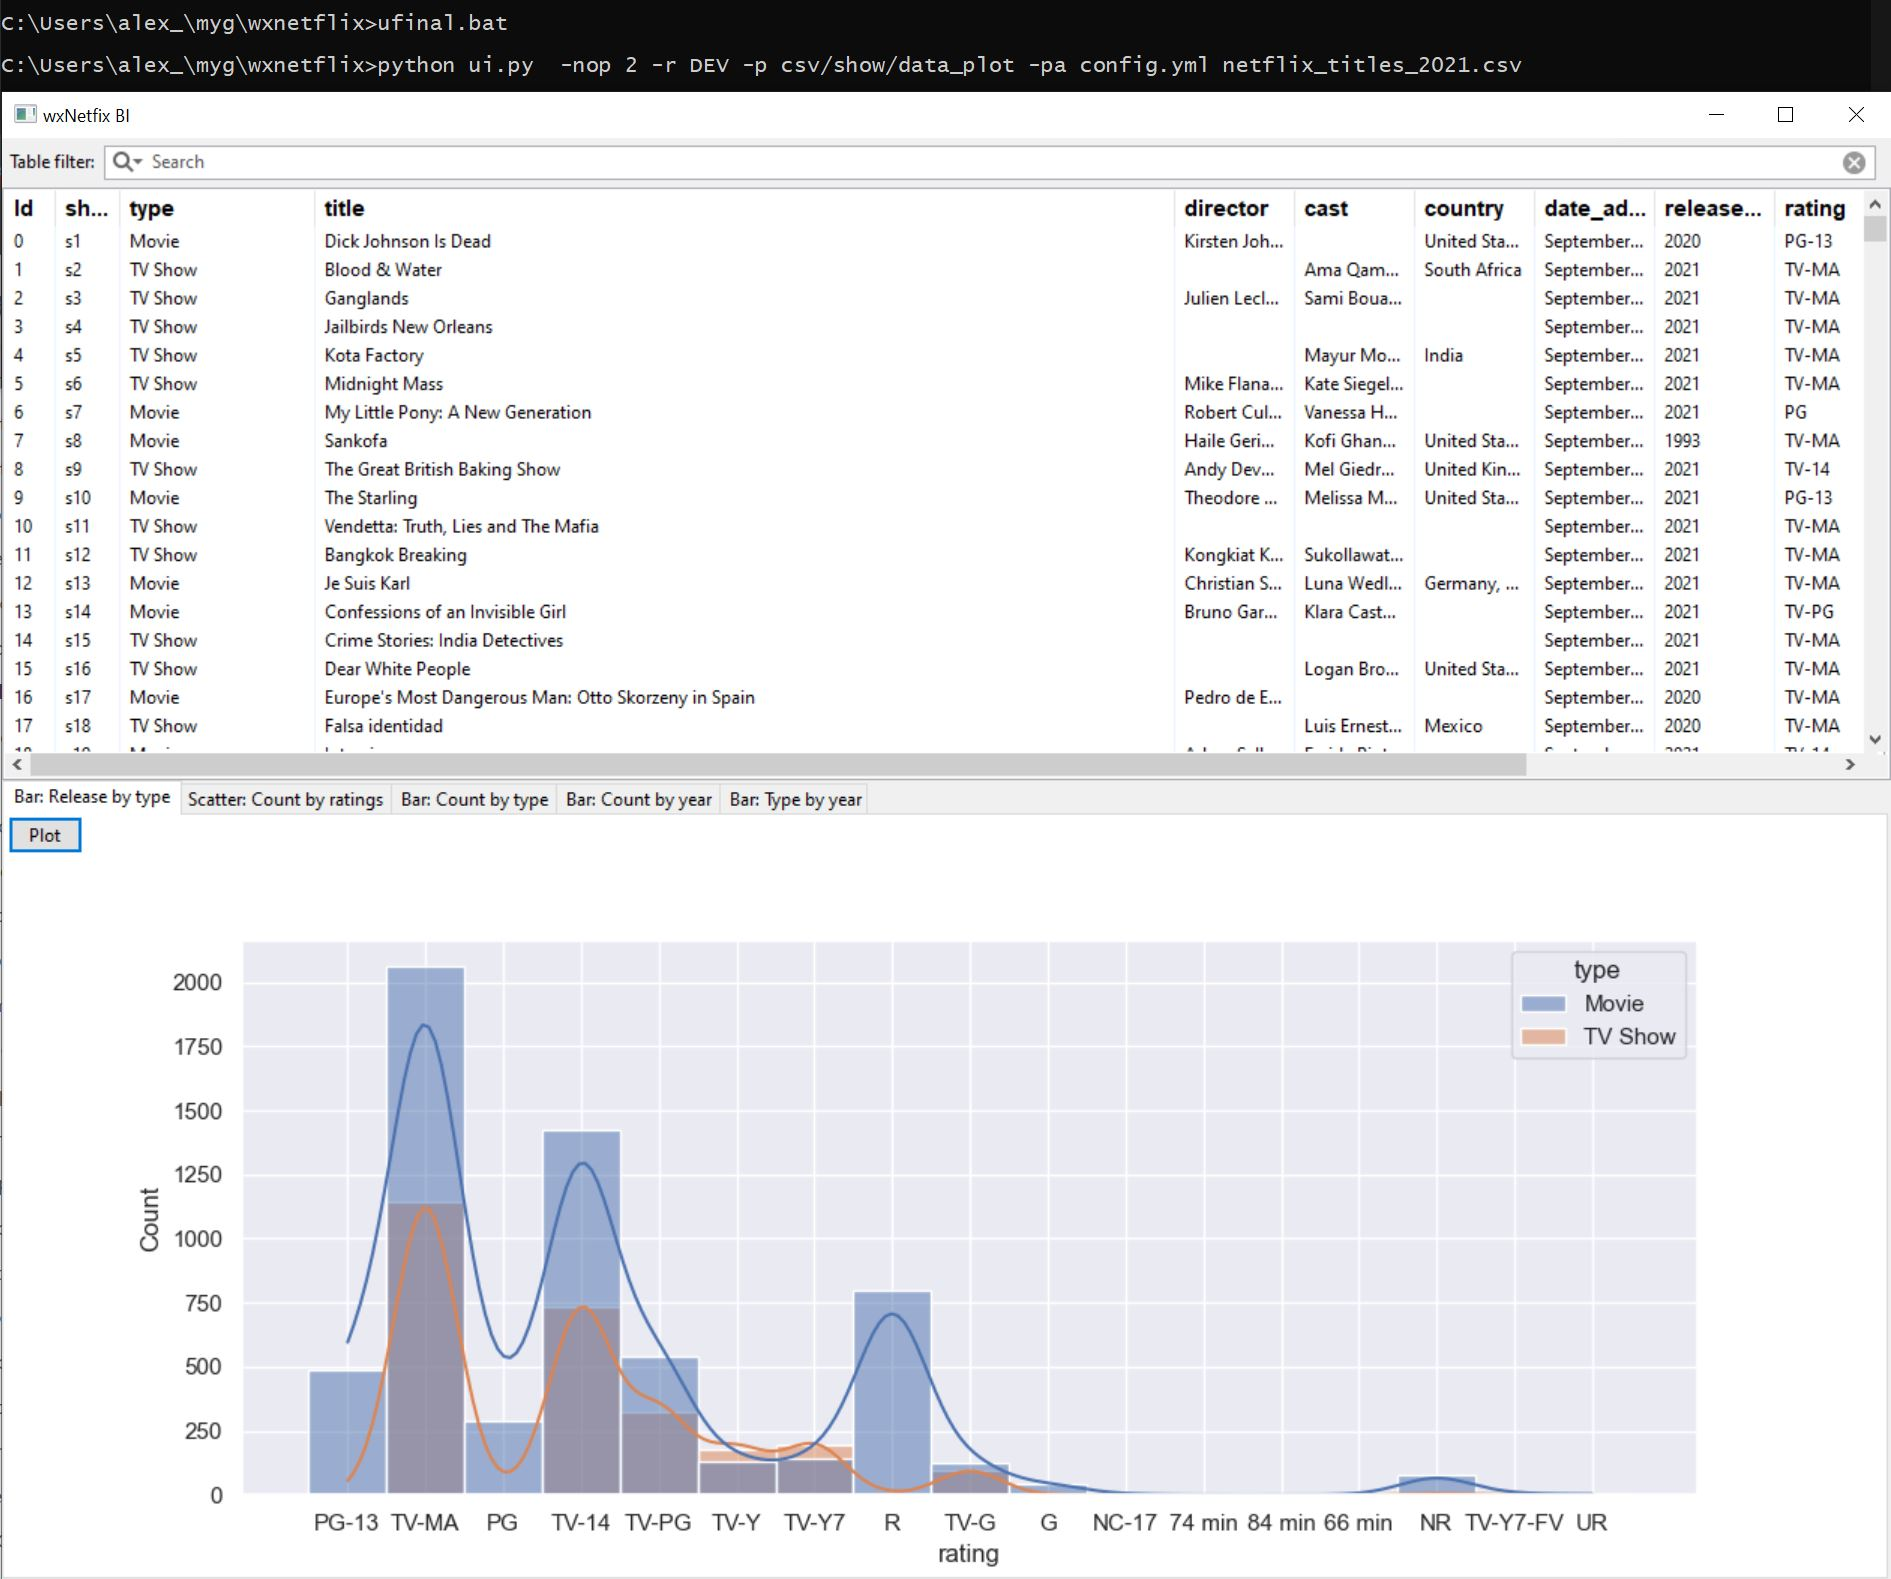
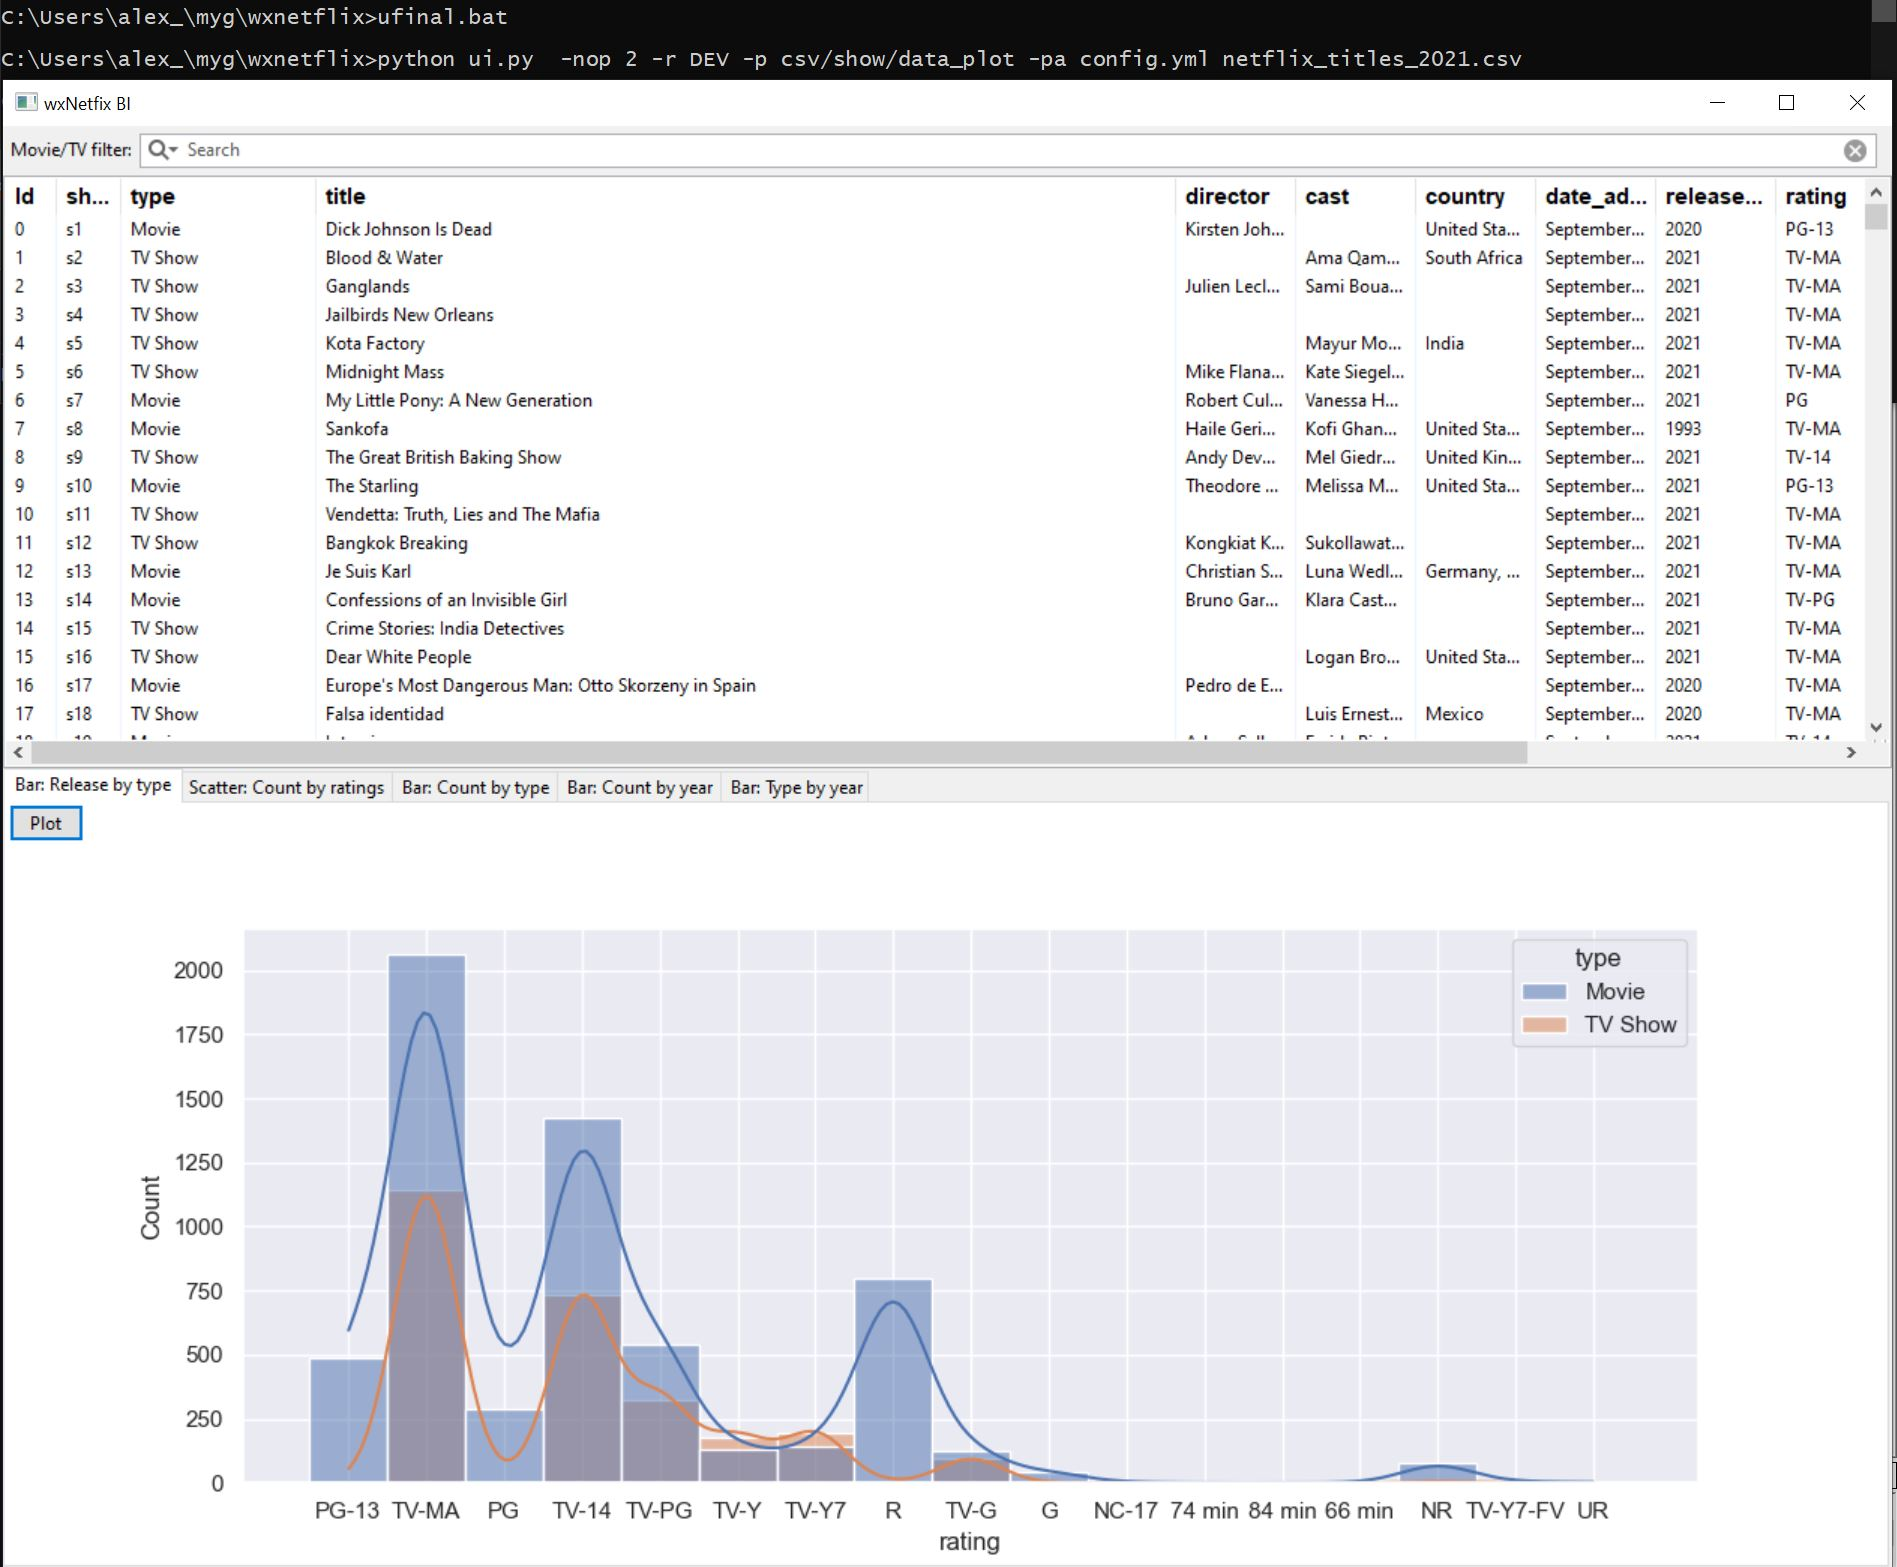
cleanup

diff --git a/pipeline/csv/show/data_plot/module/default/FilterPanel.py b/pipeline/csv/show/data_plot/module/default/FilterPanel.py
@@ -125,7 +125,7 @@ class FilterPanel(wx.Panel, Controller):
         #leftBox.Add(self.slist, 1, wx.EXPAND|wx.ALL)
         h_sizer = wx.BoxSizer(wx.HORIZONTAL)
         
-        h_sizer.Add(wx.StaticText(self, label = "Table filter:"), 0, wx.ALIGN_CENTER|wx.LEFT, 5)
+        h_sizer.Add(wx.StaticText(self, label = "Movie/TV filter:"), 0, wx.ALIGN_CENTER|wx.LEFT, 5)
         h_sizer.Add(self.filter, 1, wx.EXPAND|wx.ALL, 5)
         h_sizer.Add((5,10), 0)
 

diff --git a/README.md b/README.md
@@ -84,21 +84,6 @@ Then navigate to fifth tab ("Count by year") in lower panel and click "Plot" But
 ![List of all items](https://github.com/pydemo/wxnetflix/blob/main/docs/screenshots/ufinal_5.JPG)
 
 
-## ushow.bat
-Shows filterable list of in/netflix_titles_2021.csv items.
-
-```
-C:\Users\alex_\myg\wxnetflix>cat ushow.bat
-python ui.py  -nop 2 -r DEV -p csv/show/data -pa config.yml netflix_titles_2021.csv  %*
-```
-### Opens to
-![List of all items](https://github.com/pydemo/wxnetflix/blob/main/docs/screenshots/ushow.JPG)
-
-### Filtering
-![List of all items](https://github.com/pydemo/wxnetflix/blob/main/docs/screenshots/ushow_ukraine.JPG)
-
-
-
 
 
 
